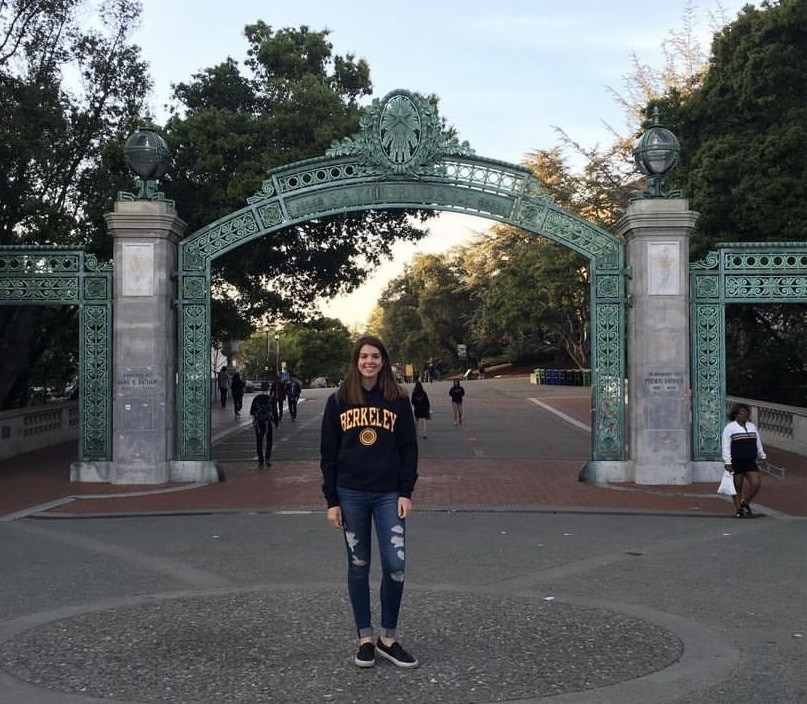
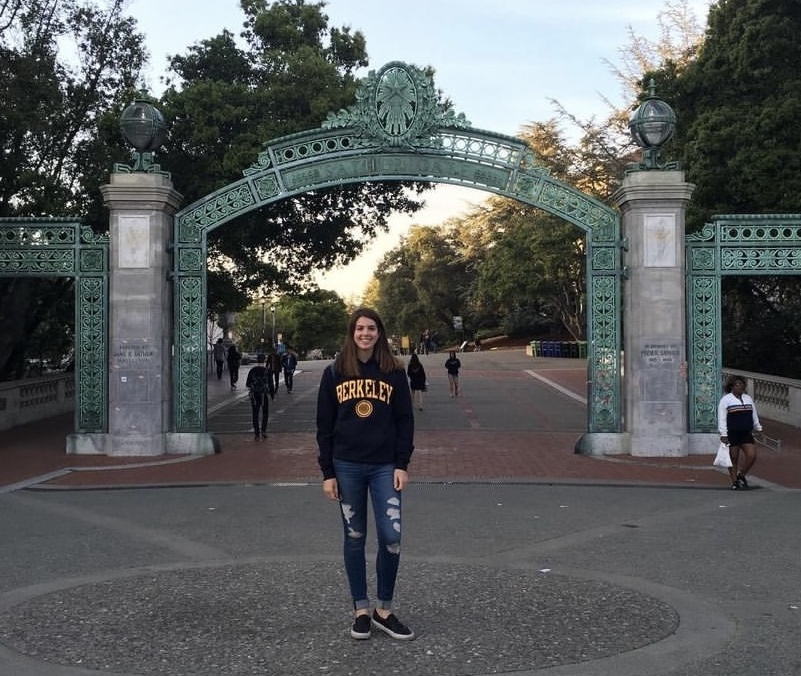
adjusting image size

diff --git a/index.html b/index.html
@@ -38,7 +38,7 @@
     </div>
   </div>
 </nav>
-<br><br><br><br>
+<br><br><br>
 
 <div id="myCarousel" class="carousel slide" data-ride="carousel">
     <!-- Indicators -->
@@ -61,7 +61,7 @@
       <div class="item">
         <img src="/images/MichelleBerkeley.jpg" alt="Michelle Berkeley" width="500" height="700">
         <div class="carousel-caption">
-          <h3>I am a senior at UC Berkeley.</h3>
+          <h3>I'm a senior at UC Berkeley.</h3>
           <p> My major is Computer Science!</p>
         </div>
       </div>
